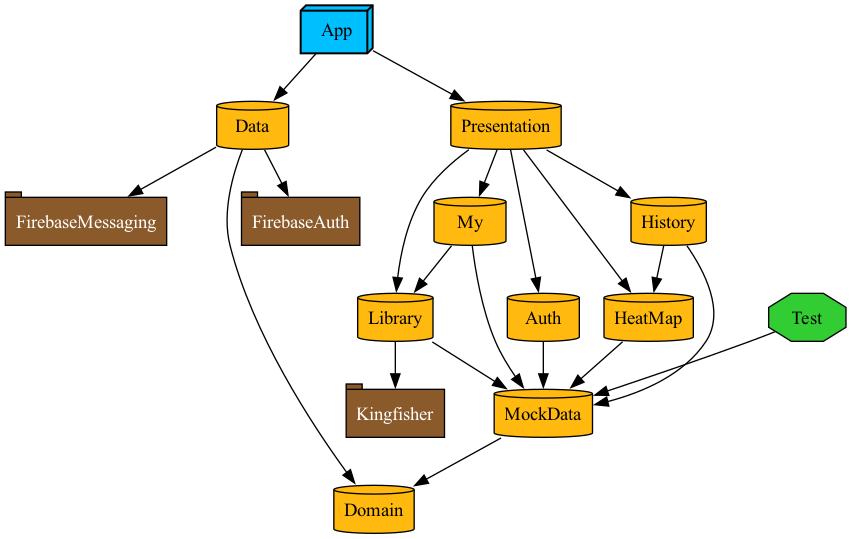
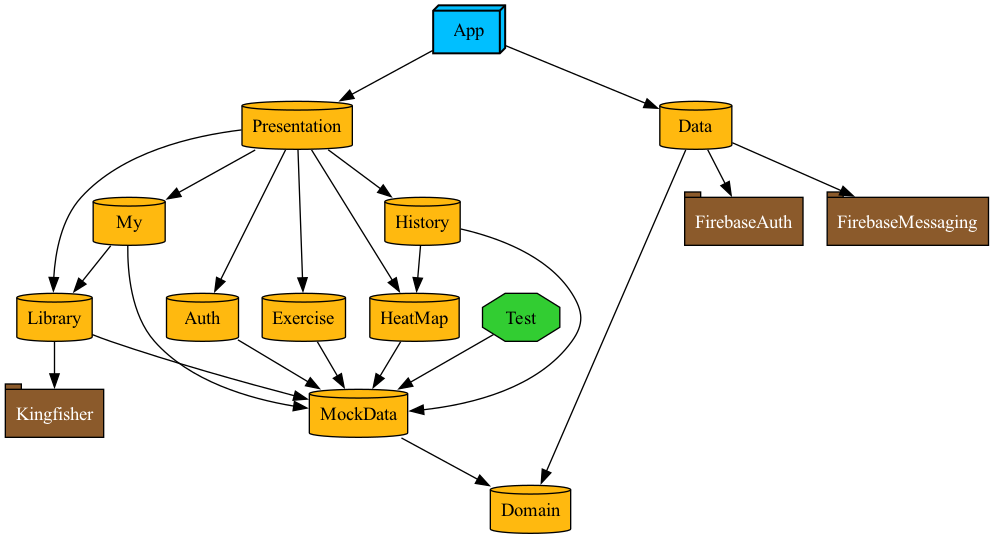
Add Exercise Target

diff --git a/dg-muscle-ios/sources/Presentation/Exercise/Model/Exercise.swift b/dg-muscle-ios/sources/Presentation/Exercise/Model/Exercise.swift
@@ -1,0 +1,73 @@
+//
+//  Exercise.swift
+//  App
+//
+//  Created by 신동규 on 5/15/24.
+//
+
+import Foundation
+import Domain
+
+struct Exercise {
+    let id: String
+    let name: String
+    let parts: [Part]
+    let favorite: Bool
+    
+    init(domain: Domain.Exercise) {
+        self.id = domain.id
+        self.name = domain.name
+        self.parts = domain.parts.map({ .init(domain: $0) })
+        self.favorite = domain.favorite
+    }
+    
+    var domain: Domain.Exercise {
+        return .init(id: id, name: name, parts: parts.map({ $0.domain }), favorite: favorite)
+    }
+    
+}
+
+extension Exercise {
+    enum Part {
+        case arm
+        case back
+        case chest
+        case core
+        case leg
+        case shoulder
+        
+        init(domain: Domain.Exercise.Part) {
+            switch domain {
+            case .arm:
+                self = .arm
+            case .back:
+                self = .back
+            case .chest:
+                self = .chest
+            case .core:
+                self = .core
+            case .leg:
+                self = .leg
+            case .shoulder:
+                self = .shoulder
+            }
+        }
+        
+        var domain: Domain.Exercise.Part {
+            switch self {
+            case .arm:
+                return .arm
+            case .back:
+                return .back
+            case .chest:
+                return .chest
+            case .core:
+                return .core
+            case .leg:
+                return .leg
+            case .shoulder:
+                return .shoulder
+            }
+        }
+    }
+}

diff --git a/Project.swift b/Project.swift
@@ -12,6 +12,7 @@ enum Layer: String, CaseIterable {
 
 enum Presentation: String, CaseIterable {
     case Auth
+    case Exercise
     case HeatMap
     case History
     case Library
@@ -143,7 +144,7 @@ func createPresentations() -> [Target] {
     
     return Presentation.allCases.map({
         switch $0 {
-        case .Auth, .HeatMap:
+        case .Auth, .HeatMap, .Exercise:
             return createPresentation($0, dependencies: [])
         case .History:
             return createPresentation($0, dependencies: [
